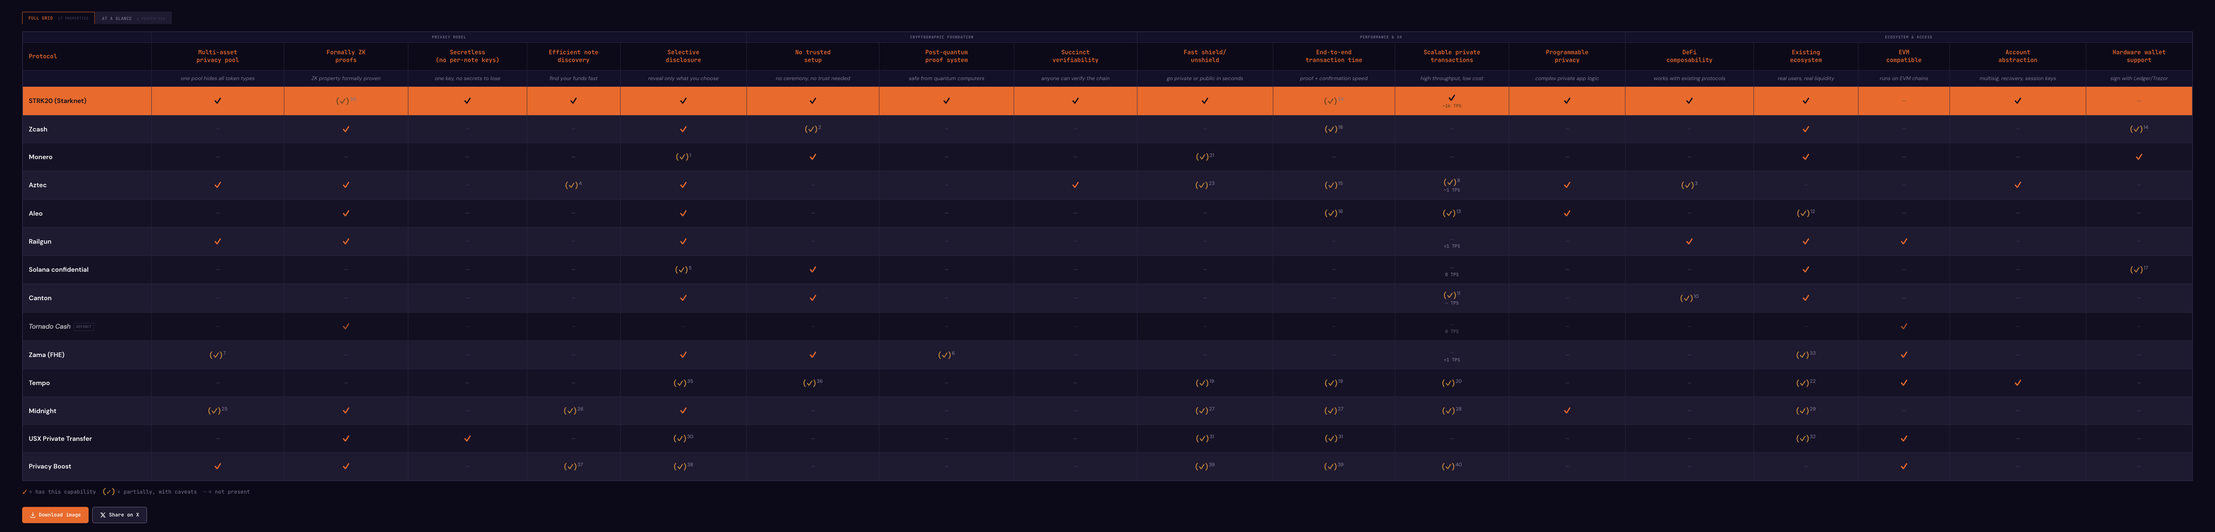
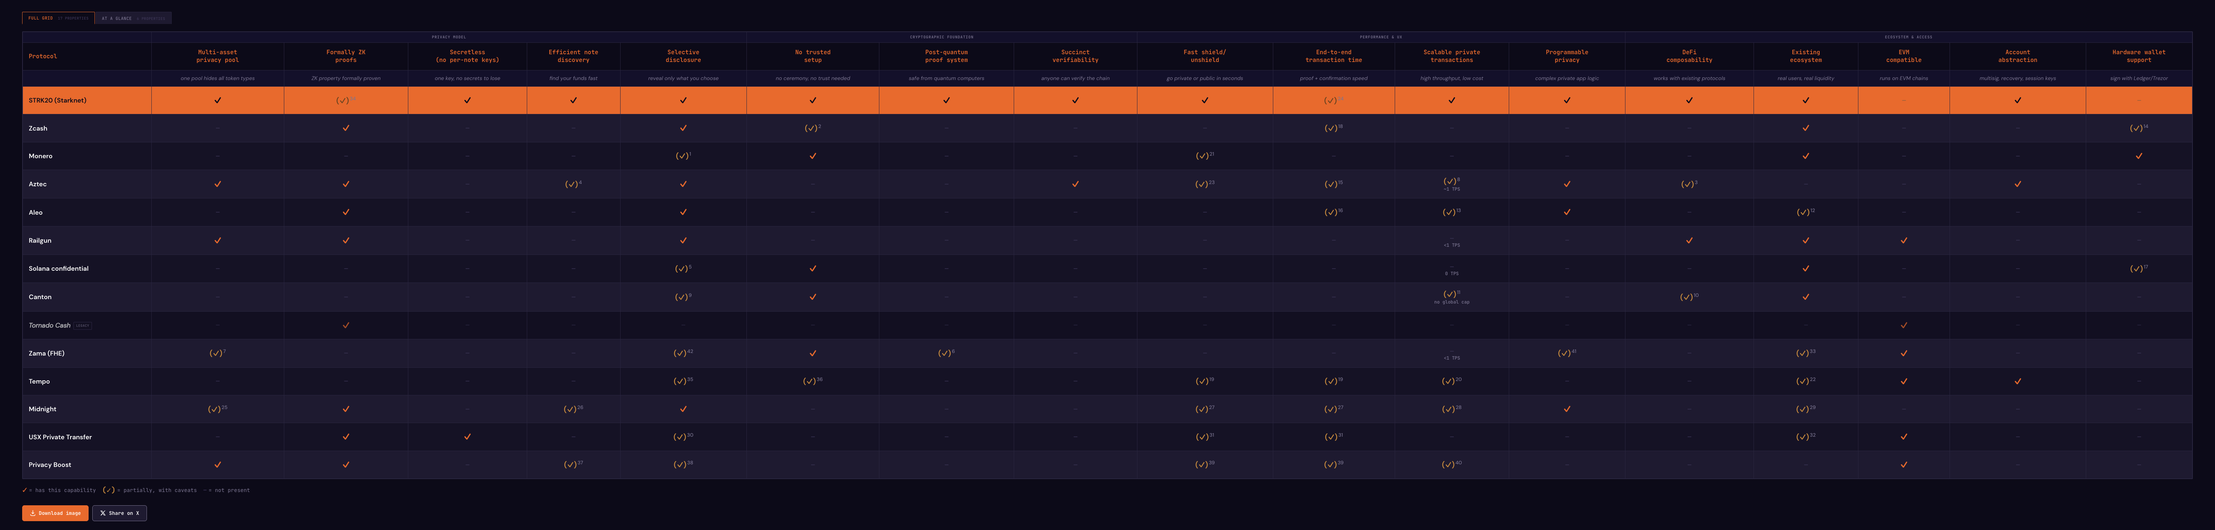
Address privacy grid audit findings

diff --git a/docs/data.js b/docs/data.js
@@ -7,7 +7,6 @@ const sourceRefs = {
   "starknet-strk20-blog": { label: "Starknet STRK20 announcement", url: "https://www.starknet.io/blog/make-all-erc-20-tokens-private-with-strk20/" },
   "strk20-paper": { label: "STRK20 technical paper", url: "https://eprint.iacr.org/2026/474" },
   "starknet-0142": { label: "Starknet v0.14.2 notes", url: "https://community.starknet.io/t/0-14-2-pre-release-notes/116146" },
-  "snip36": { label: "SNIP-36", url: "https://community.starknet.io/t/snip-36-in-protocol-proof-verification/116123" },
   "starknet-accounts": { label: "Starknet accounts docs", url: "https://docs.starknet.io/architecture/accounts" },
   "starknet-ledger": { label: "Ledger Starknet wallet", url: "https://www.ledger.com/coin/wallet/starknet" },
   "stwo-zk-status": { label: "S-two zero-knowledge status", url: "https://docs.starknet.io/learn/S-two-book/why-stwo" },
@@ -27,7 +26,6 @@ const sourceRefs = {
   "aztec-overview": { label: "Aztec overview", url: "https://docs.aztec.network/nightly/developers/overview" },
   "aleo-mainnet": { label: "Aleo mainnet announcement", url: "https://aleo.org/post/announcing-aleo-mainnet/" },
   "aleo-docs": { label: "Aleo developer docs", url: "https://developer.aleo.org/" },
-  "aleo-setup": { label: "Aleo setup ceremony", url: "https://aleo.org/post/a-technical-explanation-of-the-aleo-setup-ceremony/" },
   "circle-xreserve": { label: "Circle xReserve release notes", url: "https://developers.circle.com/release-notes/xreserve-2026" },
   "solana-confidential": { label: "Solana confidential transfers", url: "https://solana.com/docs/tokens/extensions/confidential-transfer" },
   "ledger-solana": { label: "Ledger Solana wallet", url: "https://www.ledger.com/coin/wallet/solana" },
@@ -37,12 +35,14 @@ const sourceRefs = {
   "canton-defi": { label: "Canton DeFi docs", url: "https://docs.cantondefi.com/" },
   "railgun-wallet": { label: "RAILGUN Wallet SDK", url: "https://docs.railgun.org/developer-guide/" },
   "railgun-poi": { label: "RAILGUN Private POI", url: "https://docs.railgun.org/wiki/assurance/private-proofs-of-innocence" },
-  "railgun-site": { label: "RAILGUN site", url: "https://railgun.org/?v=1.0.26" },
   "tornado-how": { label: "Tornado Cash docs", url: "https://docs.tornado.cash/general/how-does-tornado-cash-work" },
   "tornado-setup": { label: "Tornado trusted setup", url: "https://tornado-cash.medium.com/tornado-cash-trusted-setup-ceremony-b846e1e00be1" },
   "tornado-delisting": { label: "OFAC delisting notice", url: "https://www.govinfo.gov/content/pkg/FR-2025-03-26/pdf/2025-05048.pdf" },
   "zama-protocol": { label: "Zama protocol docs", url: "https://docs.zama.org/protocol/protocol/overview" },
   "zama-fhevm": { label: "Zama fhEVM", url: "https://www.zama.ai/products-and-services/fhevm" },
+  "zama-hcu": { label: "Zama HCU docs", url: "https://docs.zama.org/protocol/solidity-guides/development-guide/hcu" },
+  "zama-acl": { label: "Zama ACL docs", url: "https://docs.zama.org/protocol/solidity-guides/smart-contract/acl" },
+  "zama-user-decryption": { label: "Zama user decryption", url: "https://docs.zama.org/protocol/relayer-sdk-guides/fhevm-relayer/decryption/user-decryption" },
   "zama-mainnet": { label: "Zama mainnet developer program", url: "https://www.zama.org/post/zama-developer-program-mainnet-season1-building-for-the-long-game" },
   "zama-confidential-erc20": { label: "Zama confidential ERC-20", url: "https://www.zama.org/post/confidential-erc-20-tokens-using-homomorphic-encryption" },
   "tempo-performance": { label: "Tempo performance docs", url: "https://docs.tempo.xyz/learn/tempo/performance" },
@@ -50,7 +50,7 @@ const sourceRefs = {
   "tempo-transactions": { label: "Tempo transactions", url: "https://docs.tempo.xyz/learn/tempo/modern-transactions" },
   "tempo-privacy": { label: "Tempo privacy docs", url: "https://docs.tempo.xyz/learn/tempo/privacy" },
   "tempo-tip403": { label: "Tempo TIP-403", url: "https://docs.tempo.xyz/protocol/tip403/spec" },
-  "tempo-mainnet": { label: "Tempo mainnet report", url: "https://fortune.com/2026/03/18/stripe-tempo-paradigm-mpp-ai-payments-protocol//" },
+  "tempo-mainnet": { label: "Tempo mainnet report", url: "https://fortune.com/2026/03/18/stripe-tempo-paradigm-mpp-ai-payments-protocol/" },
   "midnight-docs": { label: "Midnight docs", url: "https://docs.midnight.network/" },
   "midnight-site": { label: "Midnight site", url: "https://midnight.network/index" },
   "midnight-state": { label: "Midnight state of network", url: "https://midnight.network/blog/state-of-the-network-march-2026" },
@@ -68,8 +68,6 @@ const sourceRefs = {
   "privacyboost-keys": { label: "Privacy Boost keys docs", url: "https://docs.privacyboost.io/technical-explainer/keys-and-encryption" },
   "privacyboost-audit": { label: "OpenZeppelin PrivacyBoost audit", url: "https://www.openzeppelin.com/news/sunnyside-labs-privacyboost-audit" },
   "privacyboost-terms": { label: "Privacy Boost terms", url: "https://www.privacyboost.io/terms" },
-  "privacyboost-optimism": { label: "Optimism Privacy Boost launch", url: "https://www.optimism.io/blog/privacy-comes-to-the-op-stack" },
-  "privacyboost-startale": { label: "Startale Privacy Boost integration", url: "https://cointelegraph.com/news/startale-app-taps-privacy-boost-for-private-transfers-on-soneium" },
 };
 
 const sourced = (text, sources = []) => ({ text, sources });
@@ -82,8 +80,7 @@ const sourced = (text, sources = []) => ({ text, sources });
 const fullProjects = [
   { name: "STRK20 (Starknet)", highlight: true,
     ticks: [true, "partial", true, true, true, true, true, true, true, "partial", true, true, true, true, false, true, false],
-    fnMap: {1: 34, 9: 24},
-    scalable: "~1k TPS" },
+    fnMap: {1: 34, 9: 24} },
   { name: "Zcash",
     ticks: [false, true, false, false, true, "partial", false, false, false, "partial", false, false, false, true, false, false, "partial"],
     fnMap: {5: 2, 16: 14, 9: 18} },
@@ -106,17 +103,16 @@ const fullProjects = [
     fnMap: {4: 5, 16: 17},
     scalable: "0 TPS" },
   { name: "Canton",
-    ticks: [false, false, false, false, true, true, false, false, false, false, "partial", false, "partial", true, false, false, false],
-    fnMap: {12: 10, 10: 11},
-    scalable: "\u221E TPS" },
+    ticks: [false, false, false, false, "partial", true, false, false, false, false, "partial", false, "partial", true, false, false, false],
+    fnMap: {4: 9, 12: 10, 10: 11},
+    scalable: "no global cap" },
   { name: "Tornado Cash",
     ticks: [false, true, false, false, false, false, false, false, false, false, false, false, false, false, true, false, false],
     fnMap: {},
-    status: "defunct",
-    scalable: "0 TPS" },
+    status: "legacy" },
   { name: "Zama (FHE)",
-    ticks: ["partial", false, false, false, true, true, "partial", false, false, false, false, false, false, "partial", true, false, false],
-    fnMap: {0: 7, 6: 6, 13: 33},
+    ticks: ["partial", false, false, false, "partial", true, "partial", false, false, false, false, "partial", false, "partial", true, false, false],
+    fnMap: {0: 7, 4: 42, 6: 6, 11: 41, 13: 33},
     scalable: "<1 TPS" },
   { name: "Tempo",
     ticks: [false, false, false, false, "partial", "partial", false, false, "partial", "partial", "partial", false, false, "partial", true, true, false],
@@ -173,6 +169,8 @@ const fullFootnotes = {
   38: sourced("audit access is operator-mediated rather than user-issued viewing keys: auditors query a TEE-decrypted database through authenticated API access, with onchain audit logs submitted asynchronously", ["privacyboost-compliance", "privacyboost-terms"]),
   39: sourced("server-side TEE proving is advertised as sub-500ms, but private transfers settle when the relay submits an epoch. forced withdrawals bypass the TEE but introduce a configurable delay", ["privacyboost-overview", "privacyboost-protocol", "privacyboost-audit"]),
   40: sourced("epoch batching gives one Groth16 proof per batch and docs estimate 300+ sustained TPS at Base gas target or 1,800+ TPS at gas limit, but no public production telemetry was found. no TPS sublabel is shown for claimed or theoretical figures", ["privacyboost-protocol", "privacyboost-trust"]),
+  41: sourced("fhEVM supports confidential Solidity contracts over encrypted types and operations, so Zama gets programmable privacy credit. marked partial because execution relies on FHE coprocessors and HCU limits rather than succinct onchain proof verification", ["zama-protocol", "zama-hcu"]),
+  42: sourced("FHEVM ACL and user decryption can grant selected users or contracts access to encrypted values, but this is app-defined access control rather than a standard user-issued transaction-history viewing key", ["zama-acl", "zama-user-decryption"]),
 };
 
 // At-a-glance data — 6 properties x 14 protocols
@@ -205,11 +203,11 @@ const glanceProjects = [
     ticks: ["partial", false, false, false, false, false],
     fnMap: {0: 15} },
   { name: "Zama (FHE)",
-    ticks: ["partial", false, false, true, "partial", false],
-    fnMap: {0: 16, 4: 14} },
+    ticks: ["partial", false, false, "partial", "partial", false],
+    fnMap: {0: 16, 3: 35, 4: 14} },
   { name: "Tempo",
-    ticks: ["partial", false, "partial", true, false, "partial"],
-    fnMap: {0: 18, 2: 19, 5: 20} },
+    ticks: ["partial", false, "partial", "partial", false, "partial"],
+    fnMap: {0: 18, 2: 19, 3: 34, 5: 20} },
   { name: "Midnight",
     ticks: ["partial", "partial", "partial", true, false, "partial"],
     fnMap: {0: 21, 1: 22, 2: 23, 5: 24} },
@@ -236,7 +234,7 @@ const glanceFootnotes = {
   12: sourced("auditor key exists in config but entire feature is disabled on mainnet", ["solana-confidential"]),
   13: sourced("DeFi within own Daml ecosystem only. requires separate smart contract language", ["canton-defi", "canton-overview"]),
   14: sourced("TFHE is lattice-based (PQ-resistant) and no trusted setup, but no succinct verifiability", ["zama-protocol"]),
-  15: sourced("formally ZK (Groth16), but fragmented pools (fixed denominations) and timing analysis could de-anonymize users. protocol is defunct; OFAC sanctions were lifted in March 2025", ["tornado-how", "tornado-setup", "tornado-delisting"]),
+  15: sourced("formally ZK (Groth16), but fragmented pools (fixed denominations) and timing analysis could de-anonymize users. legacy protocol; OFAC sanctions were lifted in March 2025, but the original product remains a high-risk historical mixer rather than a modern maintained privacy app", ["tornado-how", "tornado-setup", "tornado-delisting"]),
   16: sourced("FHE genuinely encrypts data during computation, but server-side model (not client-side ZK proofs). different trust model. ecosystem nascent", ["zama-protocol", "zama-fhevm"]),
   17: sourced("privacy is always on so there\u2019s no shielding step (zero friction to opt in). ~2 min block time for confirmations. seamless UX but slower than Starknet", ["monero-specs"]),
   18: sourced("opt-in privacy, not private by default. privacy cryptography not publicly documented. uses TIP-403 Policy Registry for issuer compliance and auditability", ["tempo-transactions"]),
@@ -255,6 +253,8 @@ const glanceFootnotes = {
   31: sourced("TEE proof generation is advertised as sub-500ms, but transfers are epoch-batched and no public production latency benchmark was found", ["privacyboost-overview", "privacyboost-protocol"]),
   32: sourced("compliance disclosure is not user-issued viewing keys. auditors query account-level history and balances from the TEE-indexed database through an authenticated API, with onchain query logs", ["privacyboost-compliance", "privacyboost-terms"]),
   33: sourced("works with MetaMask, WalletConnect, and EOAs, but the privacy account still derives separate auth, viewing, and nullifying keys and no hardware-wallet privacy flow is documented", ["privacyboost-overview", "privacyboost-keys"]),
+  34: sourced("Tempo selective disclosure remains partial because the docs describe it for a future private-token standard, not a live universal disclosure mechanism", ["tempo-privacy", "tempo-tip403"]),
+  35: sourced("Zama can grant granular decryption permissions via ACL/user decryption, but disclosure is app-defined and not a wallet-level viewing-key model", ["zama-acl", "zama-user-decryption"]),
 };
 
 // Column definitions grouped by category
@@ -264,7 +264,7 @@ const definitions = [
     { term: "Formally ZK proofs", def: "The proof system has the mathematical zero-knowledge property: the proof guarantees that no information about the secret data leaks to the verifier. Zcash (Groth16/Halo 2), Aztec (PLONK/Honk), Aleo (Varuna), Railgun (Groth16), Privacy Boost (Groth16/BN254), and Tornado Cash (Groth16) use formally ZK proof systems. STRK20 is marked partial: public STRK20 copy says zero-knowledge-backed private transactions, while public S-two docs say the zero-knowledge feature was not available at time of writing. Monero uses ring signatures. Solana uses ElGamal. Canton uses access control." },
     { term: "Secretless (no per-note keys)", def: "Users handle a single signing key (or none, via AA). No per-note secrets to manage or lose. STRK20 derives all keys from the Starknet account key via account abstraction. Privacy Boost derives auth, viewing, and nullifying keys from a seed in addition to the user's EOA key. Aztec requires 4 separate key pairs. Aleo requires private key + view key. Railgun requires spending + viewing keys. Monero requires spend + view keys." },
     { term: "Efficient note discovery", def: "Recipients discover funds in time proportional to their own activity. STRK20 uses onchain indexed storage with shared secrets. Privacy Boost provides fast note discovery through a TEE indexer that decrypts and serves metadata, with manual recovery by scanning onchain events. Aztec uses a tagging mechanism but requires pre-registering senders. Midnight separates public onchain state from private local state and ships an indexer, but note-discovery guarantees are not yet documented precisely. Zcash requires scanning all blocks. Railgun and Aleo use standard record/UTXO scanning." },
-    { term: "Selective disclosure", def: "Users can optionally reveal transaction history to a chosen third party without affecting other users\u2019 privacy. STRK20 has third-party viewing keys. Zcash has full viewing keys. Aztec has viewing key pairs. Aleo has view keys plus zPass. Railgun has scoped viewing keys plus PPOI. Midnight exposes selective disclosure through witness functions. Privacy Boost exposes compliance-oriented audit API access to a TEE-indexed database rather than user-issued viewing keys. Tempo describes issuer/regulator selective disclosure for planned private tokens. USX exposes regulatory view keys. Canton has sub-transaction privacy with full auditability." },
+    { term: "Selective disclosure", def: "Users can optionally reveal transaction history to a chosen third party without affecting other users\u2019 privacy. STRK20 has third-party viewing keys. Zcash has full viewing keys. Aztec has viewing key pairs. Aleo has view keys plus zPass. Railgun has scoped viewing keys plus PPOI. Midnight exposes selective disclosure through witness functions. Zama offers app-defined ACL and user-decryption flows for encrypted values, not a standard wallet-level viewing-key model. Privacy Boost exposes compliance-oriented audit API access to a TEE-indexed database rather than user-issued viewing keys. Tempo describes issuer/regulator selective disclosure for planned private tokens. USX exposes regulatory view keys. Canton has sub-transaction privacy with full auditability, but it is an access-control model rather than ZK-style user-issued disclosure." },
   ]},
   { category: "Cryptographic Foundation", entries: [
     { term: "No trusted setup", def: "Proof system requires no trusted setup ceremony. STARKs (Starknet) require none. Zcash Orchard uses Halo 2 (no setup) but Sapling still has one. Monero\u2019s Bulletproofs+ and Solana\u2019s ElGamal/Bulletproofs require none. Aleo uses Varuna (requires universal SRS). Aztec\u2019s PLONK uses a universal updatable SRS. Midnight\u2019s current stack references a Midnight SRS. Railgun, Privacy Boost, and Tornado Cash use Groth16 (per-circuit ceremonies). Tempo private-token cryptography is not yet publicly specified." },
@@ -274,8 +274,8 @@ const definitions = [
   { category: "Performance & UX", entries: [
     { term: "Fast shield/unshield", def: "How quickly a user can move between public and private states. STRK20: ~2s block + sub-5s proof. Zcash: ~75s block bottleneck. Monero: always private, no opt-out. Aztec: ~6s blocks in Alpha Mainnet (since March 31, 2026). Midnight uses client-side proving on a roughly 6-second block cadence, but no official mainnet shield/unshield benchmark is published. Railgun: 1-hour mandatory standby (PPOI). Solana: feature disabled. Zama: FHE much slower." },
     { term: "End-to-end transaction time", def: "Measures the user-visible path from private transaction creation through proving and confirmation. STRK20 is about ~5s from the user perspective, but proof currently runs on wallet operator backend; mobile proving is on roadmap. Zcash has consumer shielded wallets, but confirmation is bounded by its slower block cadence. Aztec: PXE proving still optimizing. Midnight keeps private data local and supports client-side proving, but no official end-to-end latency benchmark is published. Aleo: resource-intensive, outsourceable. Zama: FHE much slower." },
-    { term: "Scalable private transactions", def: "High throughput and low cost for private operations. A TPS figure appears under the tick only when it's demonstrated or structurally inherent. Theoretical maxes, targets, and unsourced estimates are intentionally omitted so the number you see can be trusted. Shown figures: Starknet ~1k TPS (demonstrated on mainnet); Aztec ~1 TPS (Alpha Mainnet, footnote 8); Railgun <1 TPS (years of live Ethereum usage, constrained by ~700k–1M gas per Railgun tx); Solana confidential 0 TPS (feature disabled on mainnet); Canton ∞ TPS (horizontal scaling via network-of-networks, no global bottleneck by architecture); Tornado Cash 0 TPS (protocol defunct); Zama <1 TPS (FHE benchmarks show operations 100–10,000× slower than plaintext). Intentionally omitted: Zcash and Monero (theoretical-max math only, historical average far below ceiling), Aleo (no published private-tx benchmark), Midnight (no published private-tx benchmark yet), Tempo (100k+ TPS is a target on Reth, not demonstrated)." },
-    { term: "Programmable privacy", def: "Ability to prove complex logic privately, verified cheaply onchain. STRK20: Cairo + Stwo enables proving entire block logic. Aztec: Noir + PXE. Midnight: Compact plus hybrid public/private state. Aleo: Leo but no cross-program composability. Zcash: simple transfers only. Tornado Cash: fixed-denomination deposits were the ceiling." },
+    { term: "Scalable private transactions", def: "High throughput and low cost for private operations. A TPS figure appears under the tick only when it's demonstrated for the private path or structurally inherent. Theoretical maxes, targets, and base-chain-only estimates are intentionally omitted so the number you see can be trusted. Shown figures: Aztec ~1 TPS (Alpha Mainnet, footnote 8); Railgun <1 TPS (years of live Ethereum usage, constrained by ~700k–1M gas per Railgun tx); Solana confidential 0 TPS (feature disabled on mainnet); Canton no global cap (horizontal scaling via network-of-networks); Zama <1 TPS (FHE benchmarks show operations 100–10,000× slower than plaintext). Intentionally omitted: STRK20 until a public private-transfer TPS benchmark is available, Zcash and Monero (theoretical-max math only, historical average far below ceiling), Aleo (no published private-tx benchmark), Midnight (no published private-tx benchmark yet), Tempo (100k+ TPS is a target on Reth, not demonstrated)." },
+    { term: "Programmable privacy", def: "Ability to prove or compute complex logic privately. STRK20: Cairo + Stwo enables proving entire block logic. Aztec: Noir + PXE. Midnight: Compact plus hybrid public/private state. Zama: confidential Solidity computation over encrypted values via FHEVM, marked partial because it relies on off-chain FHE coprocessors and HCU limits rather than succinct onchain proof verification. Aleo: Leo but no cross-program composability. Zcash: simple transfers only. Tornado Cash: fixed-denomination deposits were the ceiling." },
   ]},
   { category: "Ecosystem & Access", entries: [
     { term: "DeFi composability", def: "Existing DeFi contracts require zero custom integration for private transactions. STRK20 and Railgun work with existing live protocols. Aztec, Canton, Midnight, Tempo, and Aleo require building inside their own app environments or token standards. Privacy Boost is an SDK/app integration layer around shielded deposits, transfers, and withdrawals; private DeFi is roadmap rather than zero-integration composability today. USX routes through a specific private-transfer flow rather than arbitrary DeFi composability." },

diff --git a/docs/index.html b/docs/index.html
@@ -32,9 +32,9 @@
 <!-- Open Graph -->
 <meta property="og:title" content="Privacy Protocol Grid">
 <meta property="og:description" content="What 14 crypto privacy protocols actually deliver: STRK20, Zcash, Monero, Aztec, Aleo, Railgun, Midnight, Tempo, USX, Privacy Boost. 17 properties, sources listed in footnotes.">
-<meta property="og:image" content="https://privacygrid.dev/privacy_grid_image.png?v=14">
+<meta property="og:image" content="https://privacygrid.dev/privacy_grid_image.png?v=15">
 <meta property="og:image:width" content="6000">
-<meta property="og:image:height" content="1441">
+<meta property="og:image:height" content="1437">
 <meta property="og:url" content="https://privacygrid.dev/">
 <meta property="og:type" content="website">
 <meta property="og:site_name" content="Privacy Protocol Grid">
@@ -43,14 +43,14 @@
 <meta name="twitter:card" content="summary_large_image">
 <meta name="twitter:title" content="Privacy Protocol Grid">
 <meta name="twitter:description" content="14 protocols. 17 properties. Sources in footnotes.">
-<meta name="twitter:image" content="https://privacygrid.dev/privacy_grid_image.png?v=14">
+<meta name="twitter:image" content="https://privacygrid.dev/privacy_grid_image.png?v=15">
 <meta name="twitter:image:alt" content="Privacy Protocol Grid comparing 14 protocols across 17 properties">
 
 <link rel="icon" type="image/svg+xml" href="favicon.svg">
 <link rel="preconnect" href="https://fonts.googleapis.com">
 <link rel="preconnect" href="https://fonts.gstatic.com" crossorigin>
 <link href="https://fonts.googleapis.com/css2?family=DM+Sans:ital,opsz,wght@0,9..40,400;0,9..40,500;0,9..40,600;0,9..40,700;1,9..40,400&family=JetBrains+Mono:wght@400;500;600&display=swap" rel="stylesheet">
-<link rel="stylesheet" href="style.css?v=7">
+<link rel="stylesheet" href="style.css?v=8">
 </head>
 <body>
 
@@ -162,7 +162,7 @@
         <span class="legend-item"><span class="tick-dash">&ndash;</span> = not present</span>
       </div>
       <div class="share-bar">
-        <a href="privacy_grid_image.png?v=14" download="privacy_protocol_grid.png" class="share-btn download-btn">
+        <a href="privacy_grid_image.png?v=15" download="privacy_protocol_grid.png" class="share-btn download-btn">
           <svg width="16" height="16" viewBox="0 0 16 16" fill="none"><path d="M8 1v9m0 0L5 7m3 3l3-3M2 12v1a2 2 0 002 2h8a2 2 0 002-2v-1" stroke="currentColor" stroke-width="1.5" stroke-linecap="round" stroke-linejoin="round"/></svg>
           Download image
         </a>
@@ -206,7 +206,7 @@
         <span class="legend-item"><span class="tick-dash">&ndash;</span> = no</span>
       </div>
       <div class="share-bar">
-        <a href="privacy_at_a_glance_image.png?v=14" download="privacy_at_a_glance.png" class="share-btn download-btn">
+        <a href="privacy_at_a_glance_image.png?v=15" download="privacy_at_a_glance.png" class="share-btn download-btn">
           <svg width="16" height="16" viewBox="0 0 16 16" fill="none"><path d="M8 1v9m0 0L5 7m3 3l3-3M2 12v1a2 2 0 002 2h8a2 2 0 002-2v-1" stroke="currentColor" stroke-width="1.5" stroke-linecap="round" stroke-linejoin="round"/></svg>
           Download image
         </a>
@@ -364,7 +364,7 @@
 <footer>
   <div class="container">
     <p>Privacy Protocol Grid &ndash; <a href="https://github.com/welttowelt/privacy-protocol-analysis" target="_blank" rel="noopener">GitHub</a> &bull; MIT License</p>
-    <p class="footer-note">Starknet community operated. Everyone welcome to contribute. PRs reviewed on merit regardless of affiliation.</p>
+    <p class="footer-note">Currently maintained by StarkWare employees. Everyone welcome to contribute. PRs reviewed on merit regardless of affiliation.</p>
     <p class="footer-note">Sources are listed in footnotes. <a href="https://github.com/welttowelt/privacy-protocol-analysis/issues/new" target="_blank" rel="noopener">Report an error</a>.</p>
     <p class="footer-note footer-disclaimer">This grid documents technical privacy capabilities. Privacy is a design property, not an endorsement of any use case. Protocols listed here include compliance features like selective disclosure and viewing keys specifically because lawful privacy and regulatory compliance are not mutually exclusive.</p>
     <p class="footer-note"><a href="terms.html">Terms of Service</a> &bull; <a href="https://starknet.io/en/legal-disclaimers#toc-privacy-policy" target="_blank" rel="noopener">Privacy Policy</a></p>
@@ -374,7 +374,7 @@
 <!-- Tooltip -->
 <div class="tooltip" id="tooltip"></div>
 
-<script src="data.js?v=14"></script>
+<script src="data.js?v=15"></script>
 <script src="app.js?v=6"></script>
 <!-- Crawler-only prose + FAQ (visually hidden, readable by search engines and LLMs) -->
 <div class="sr-only">
@@ -384,13 +384,13 @@
   <h3>Privacy model</h3>
   <p>STRK20 on Starknet, Aztec, Railgun, and Privacy Boost all support multi-asset privacy pools, meaning multiple token types share a single anonymity set. Midnight supports multiple shielded token types, but its docs do not yet establish one canonical shared pool. Zcash and Monero are single-asset only. STRK20 is the only protocol with a secretless design where users manage a single signing key via account abstraction, with no per-note secrets to lose. Most other protocols require two or more key pairs. For selective disclosure, STRK20, Zcash, Aztec, Aleo, Railgun, and Midnight all offer user-controlled ways to reveal transaction history to a chosen third party; Tempo, USX, and Privacy Boost expose more issuer-, operator-, or regulator-oriented disclosure paths.</p>
   <h3>Cryptographic foundation</h3>
-  <p>STRK20 uses STARKs, which require no trusted setup and are post-quantum resistant by design (hash-based). Its formal zero-knowledge row is marked partial because STRK20 public copy describes zero-knowledge-backed private transactions, while public S-two docs still say the zero-knowledge feature was not available at time of writing. Zcash's Orchard upgrade uses Halo 2 (no setup), but its older Sapling pool still relies on a trusted ceremony. Aztec uses PLONK with a universal updatable SRS. Railgun, Privacy Boost, and Tornado Cash use Groth16, which requires per-circuit ceremonies. On post-quantum security, only STARKs (Starknet) and TFHE lattice-based cryptography (Zama) are considered resistant to quantum attacks.</p>
+  <p>STRK20 uses STARKs, which require no trusted setup and are post-quantum resistant by design (hash-based). Its formal zero-knowledge row is marked partial because STRK20 public copy describes zero-knowledge-backed private transactions, while public S-two docs still say the zero-knowledge feature was not available at time of writing. Zcash's Orchard upgrade uses Halo 2 (no setup), but its older Sapling pool still relies on a trusted ceremony. Aztec uses PLONK with a universal updatable SRS. Railgun, Privacy Boost, and Tornado Cash use Groth16, which requires per-circuit ceremonies. On post-quantum security, STARKs (Starknet) and TFHE lattice-based cryptography (Zama) are the two approaches in the grid treated as quantum-resistant, with Zama marked partial because its model is not succinct ZK verification.</p>
   <h3>Performance and UX</h3>
-  <p>STRK20 offers the fastest trust-minimized shielding: ~2s block confirmation plus sub-5s proof generation. Zcash is bottlenecked by ~75s block times. Privacy Boost advertises sub-500ms TEE proof generation and high throughput through epoch batching, but transfers settle when relays submit epochs and the privacy path depends on an enclave operator. Aztec runs ~6s blocks in Alpha Mainnet (launched March 31, 2026), but the team has also published alpha-stage security warnings and told users not to put in funds they are not willing to lose. Midnight uses client-side proving on a roughly 6-second block cadence, but has not yet published a public mainnet latency benchmark. Railgun imposes a mandatory 1-hour standby after shielding. Monero is always private by default but has no opt-out to a transparent state. For scalability, Starknet handles roughly 1,000 TPS today, while Aztec processes about 1 TPS in its Alpha phase.</p>
+  <p>STRK20 offers the fastest trust-minimized shielding: ~2s block confirmation plus sub-5s proof generation. Zcash is bottlenecked by ~75s block times. Privacy Boost advertises sub-500ms TEE proof generation and high throughput through epoch batching, but transfers settle when relays submit epochs and the privacy path depends on an enclave operator. Aztec runs ~6s blocks in Alpha Mainnet (launched March 31, 2026), but the team has also published alpha-stage security warnings and told users not to put in funds they are not willing to lose. Midnight uses client-side proving on a roughly 6-second block cadence, but has not yet published a public mainnet latency benchmark. Railgun imposes a mandatory 1-hour standby after shielding. Monero is always private by default but has no opt-out to a transparent state. For scalability, the grid no longer prints base-chain TPS as STRK20 private-transfer TPS; Aztec currently processes about 1 TPS in its Alpha phase.</p>
   <h3>Ecosystem and DeFi</h3>
   <p>STRK20 and Railgun are the only protocols where existing DeFi contracts require zero custom integration for private transactions. Railgun works across Ethereum, Polygon, Arbitrum, and BSC. Aztec, Canton, Midnight, Tempo, Aleo, and Privacy Boost have privacy-capable application environments, SDKs, or token standards within their own ecosystems but are not composable with existing Ethereum or Starknet DeFi without custom integration or unshielding. Starknet, Zcash, Monero, Solana, and Canton all have established ecosystems with real liquidity and users. Tempo and Midnight are newly live and still early. USX is live on Scroll with a modest footprint. Privacy Boost is live as an OP Mainnet beta and has announced Startale/Soneium integration, but public usage telemetry is not yet available. Zama mainnet is live with early applications and infrastructure integrations, but its ecosystem is still nascent.</p>
   <h3>What each protocol is best suited for</h3>
-  <p>STRK20 (Starknet) covers the widest range of properties: multi-asset privacy, no trusted setup, post-quantum proofs, fast shielding, DeFi composability, programmable privacy, and account abstraction. It is designed for supported regular ERC-20 tokens on Starknet. Zcash pioneered zero-knowledge proofs for payments and has the longest track record. Monero offers always-on privacy with strong anonymity but limited programmability. Aztec is building a full programmable privacy L2 with Noir and its own execution environment, but it remains alpha-stage with explicit security caveats. Midnight is a privacy-first programmable chain built around hybrid public/private state and selective disclosure, with a live but still early ecosystem. Railgun brings privacy to existing EVM DeFi through its shielded pool. Privacy Boost targets enterprise EVM apps with a Groth16 plus TEE privacy SDK; it has strong UX and compliance positioning but a larger privacy trust surface. Aleo enables private computation with Leo, but each program runs in isolation. Zama takes a different approach with fully homomorphic encryption, computing on encrypted data server-side, and is beginning to show early mainnet applications and integrations.</p>
+  <p>STRK20 (Starknet) covers the widest range of properties: multi-asset privacy, no trusted setup, post-quantum proofs, fast shielding, DeFi composability, programmable privacy, and account abstraction. It is designed for supported regular ERC-20 tokens on Starknet. Zcash pioneered zero-knowledge proofs for payments and has the longest track record. Monero offers always-on privacy with strong anonymity but limited programmability. Aztec is building a full programmable privacy L2 with Noir and its own execution environment, but it remains alpha-stage with explicit security caveats. Midnight is a privacy-first programmable chain built around hybrid public/private state and selective disclosure, with a live but still early ecosystem. Railgun brings privacy to existing EVM DeFi through its shielded pool. Privacy Boost targets enterprise EVM apps with a Groth16 plus TEE privacy SDK; it has strong UX and compliance positioning but a larger privacy trust surface. Aleo enables private computation with Leo, but each program runs in isolation. Zama takes a different approach with fully homomorphic encryption, computing on encrypted data through confidential Solidity contracts, and is beginning to show early mainnet applications and integrations.</p>
 </section>
 <section itemscope itemtype="https://schema.org/FAQPage">
   <h2>Frequently asked questions</h2>
@@ -400,11 +400,11 @@
   </div>
   <div itemscope itemprop="mainEntity" itemtype="https://schema.org/Question">
     <h3 itemprop="name">Which crypto privacy protocol has no trusted setup?</h3>
-    <div itemprop="acceptedAnswer" itemscope itemtype="https://schema.org/Answer"><p itemprop="text">STRK20 (Starknet), Monero, Solana Confidential, and Canton require no trusted setup. STRK20 uses STARKs, which are hash-based. Monero uses Bulletproofs+. Solana uses ElGamal/Bulletproofs. Zcash's Orchard upgrade uses Halo 2 (no setup) but its Sapling pool still has one. Aztec and Aleo use universal SRS setups. Railgun and Tornado Cash use Groth16 per-circuit ceremonies. Tempo is marked partial because its private-token cryptography is not yet publicly specified.</p></div>
+    <div itemprop="acceptedAnswer" itemscope itemtype="https://schema.org/Answer"><p itemprop="text">STRK20 (Starknet), Monero, Solana Confidential, and Canton require no trusted setup. STRK20 uses STARKs, which are hash-based. Monero uses Bulletproofs+. Solana uses ElGamal/Bulletproofs. Zcash's Orchard upgrade uses Halo 2 (no setup) but its Sapling pool still has one. Aztec and Aleo use universal SRS setups. Railgun, Privacy Boost, and Tornado Cash use Groth16 per-circuit ceremonies. Tempo is marked partial because its private-token cryptography is not yet publicly specified.</p></div>
   </div>
   <div itemscope itemprop="mainEntity" itemtype="https://schema.org/Question">
     <h3 itemprop="name">Which privacy protocols are post-quantum resistant?</h3>
-    <div itemprop="acceptedAnswer" itemscope itemtype="https://schema.org/Answer"><p itemprop="text">Only STRK20 (Starknet) and Zama (FHE) use cryptographic systems considered resistant to quantum computing attacks. STRK20 uses STARKs, which are hash-based and post-quantum by design. Zama uses TFHE, which relies on lattice-based (LWE) hardness assumptions. All SNARK and elliptic-curve-based protocols are vulnerable.</p></div>
+    <div itemprop="acceptedAnswer" itemscope itemtype="https://schema.org/Answer"><p itemprop="text">STRK20 (Starknet) is marked fully post-quantum because STARKs are hash-based and post-quantum by design. Zama receives partial credit: its TFHE stack relies on lattice-based LWE hardness assumptions, but it is not a succinct proof system. SNARK and elliptic-curve-based protocols are vulnerable to quantum attacks.</p></div>
   </div>
   <div itemscope itemprop="mainEntity" itemtype="https://schema.org/Question">
     <h3 itemprop="name">What privacy protocols work with ERC-20 tokens?</h3>

diff --git a/docs/style.css b/docs/style.css
@@ -356,11 +356,11 @@ a:hover { text-decoration: underline; }
 .protocol-grid tbody tr.highlight .tick-partial { color: #6B4420; }
 .protocol-grid tbody tr.highlight .tick-dash { color: #8B5E3C; }
 
-/* Defunct protocol rows stay comparable but recede visually. */
-.protocol-grid tbody tr.status-defunct td {
+/* Legacy protocol rows stay comparable but recede visually. */
+.protocol-grid tbody tr.status-legacy td {
   opacity: 0.68;
 }
-.protocol-grid tbody tr.status-defunct .protocol-name {
+.protocol-grid tbody tr.status-legacy .protocol-name {
   font-style: italic;
 }
 .protocol-status {

diff --git a/README.md b/README.md
@@ -52,6 +52,10 @@ python3 -m http.server 8080
 
 This grid is currently maintained by StarkWare employees. Contributions are open — anyone can submit issues and pull requests, and we review them on merit regardless of affiliation.
 
+## Acknowledgements
+
+Thanks to [lucadonnoh](https://github.com/lucadonnoh) for pointing out that calling Tornado Cash "defunct" was too strong; the grid now labels it as a legacy protocol instead.
+
 ## Contributing
 
 This grid is only as good as the community keeping it accurate. Contributions are welcome from anyone — protocol teams, researchers, users.
